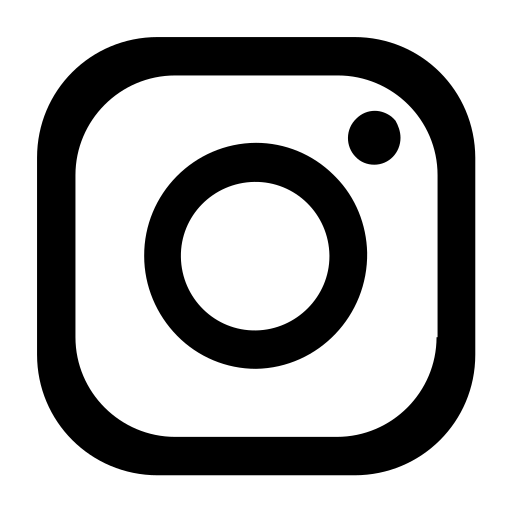
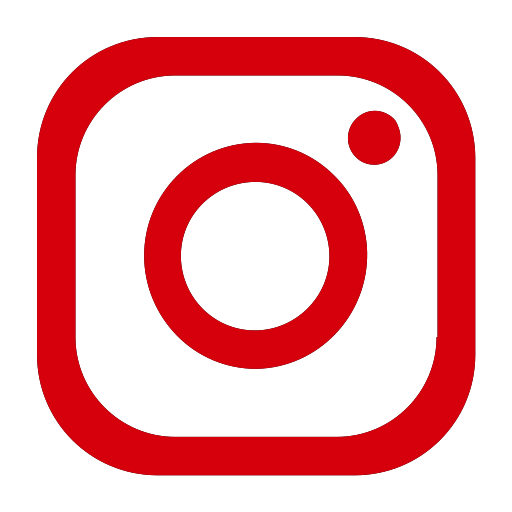
:pen: updating

diff --git a/style.css b/style.css
@@ -6,8 +6,8 @@
 }
 
 img{
-    height: 500px;
-    width: 500px;
+    height: 300px;
+    width: 300px;
 }
 
 .header{
@@ -21,17 +21,40 @@ img{
     /* font-family: 'Roboto', sans-serif; */
     font-style: italic;
     font-weight: bold;
-    font-size: 50pt;
+    font-size: 30pt;
+}
+
+.logo a{
+    color: #D6000D;
 }
 
 .nav-bar ul{
     display: flex;
     list-style: none;
+    align-items: center;
 }
 
 .nav-bar li{
     display: block;
     padding: 10px;
+}
+
+.nav-bar li a{
+    color: #121212;
+    font-weight: bold;
+}
+
+button{
+    padding: 2px 50px;
+    background-color: #D6000D;
+    border-radius: 6px;
+    border-width: 0;
+    /* box-shadow: rgba(50, 50, 93, .1) 0 0 0 1px inset,rgba(50, 50, 93, .1) 0 2px 5px 0,rgba(0, 0, 0, .07) 0 1px 1px 0; */
+    color: #fff;
+    height: 30px;
+    outline: none;
+    text-align: center;
+    font-weight: bold;
 }
 
 a{
@@ -41,24 +64,84 @@ a{
 .content{
     display: flex;
     justify-content: space-between;
+    margin: 0px 250px 100px;
+    justify-content: space-around;
 }
 
 .not-image{
     display: block;
+    padding-top: 5.5em ;    
+}
+
+.frist{
+    color: #121212;
+    font-weight: bold;
+}
+
+.frist p{
+    margin-bottom: 2em;
+}
+
+.frist strong{
+    color: #D6000D;
+    font-size: 30pt;    
+}
+
+.second{
+    list-style-image: url(/assets/checked.png);
+}
+
+.second li{
+    padding-left: 15px;
+    font-weight: 700;
+}
+
+.contact{
+    margin-top: 3.5em;
+    font-weight: bold;
+}
+
+.contact p{
+    margin-bottom: 0.5em;
+}
+
+.contact input{
+    background-color: #e3e3e3;
+    border-width: 0;
+    padding: 10px 10px;
+    border-radius: 6px;
+    font-weight: 700;
+    width: 180px;
+}
+
+.contact button{
+    padding: 0px;
+    width: 180px;
+}
+
+.content-card{
+    margin: 1em;
 }
 
 .card{
     display: flex;
     justify-content: space-between;
+    align-items: center;
     margin: 25px;
-    padding: 20px;
+    padding: 2% 1rem;
     background: #e3e3e3;
+    border-radius: 12px;
+    width: 100%;
+}
+
+.card-text{
+    text-align: justify;
 }
 
 .icon{
     height: 100px;
     width: 100px;
-    margin-right: 25px;
+    margin: 0px 10px;
     border-radius: 50%;
     background: #D6000D;
 }
@@ -68,15 +151,25 @@ a{
     justify-content: space-between;
     color: #FFF;
     background: #121212;
+    padding: 2% 20px 10% 20px;
 }
 
 .item{
-    margin: 20px;
     display: block;
+    margin: 20px;
 }
 
 .item h1{
     font-size: 40px;
+    margin-bottom: 15px;
+}
+
+.item h2{
+    margin-bottom: 15px;
+}
+
+.item p{
+    margin-bottom: 20px ;
 }
 
 .footer img{

diff --git a/index.html b/index.html
@@ -13,7 +13,7 @@
 <body class="container">
     <header class="header">
         <div class="logo">
-            <a href="/">Codar.</a>
+            <a href="/">Codar</a>.
         </div>
         <nav class="nav-bar">
             <ul>
@@ -27,7 +27,7 @@
     <main>
         <section class="content">
             <img src="/assets/video_call.png">
-            <div class="not-image">
+            <div class="not-image frist">
                 <p>
                     Alavanque seu negócio com um <br>
                     <strong>Website incrível</strong>
@@ -36,7 +36,7 @@
             </div>
         </section>
         <section class="content">
-            <div class="not-image">
+            <div class="not-image second">
                 <ul>
                     <li>Domínio personalizado</li>
                     <li>Hospedagem</li>
@@ -54,10 +54,10 @@
             
             <img src="/assets/coding_.png" >
         </section>
-        <section class="content">
+        <section class="content content-card">
             <div class="card">
                 <div class="icon"></div>
-                <div class="not-image">
+                <div class="card-text">
                     <p>
                         Já tive experiências com outras 4 empresas da área e a Codar é sem sombra de dúvidas superior em todos os aspectos.
                     </p>
@@ -67,7 +67,7 @@
             </div>
             <div class="card">
                 <div class="icon"></div>
-                <div class="not-image">
+                <div class="card-text">
                     <p>
                         Processos bem simples e criação de um site exatamente como a minha escola queria!
                     </p>
